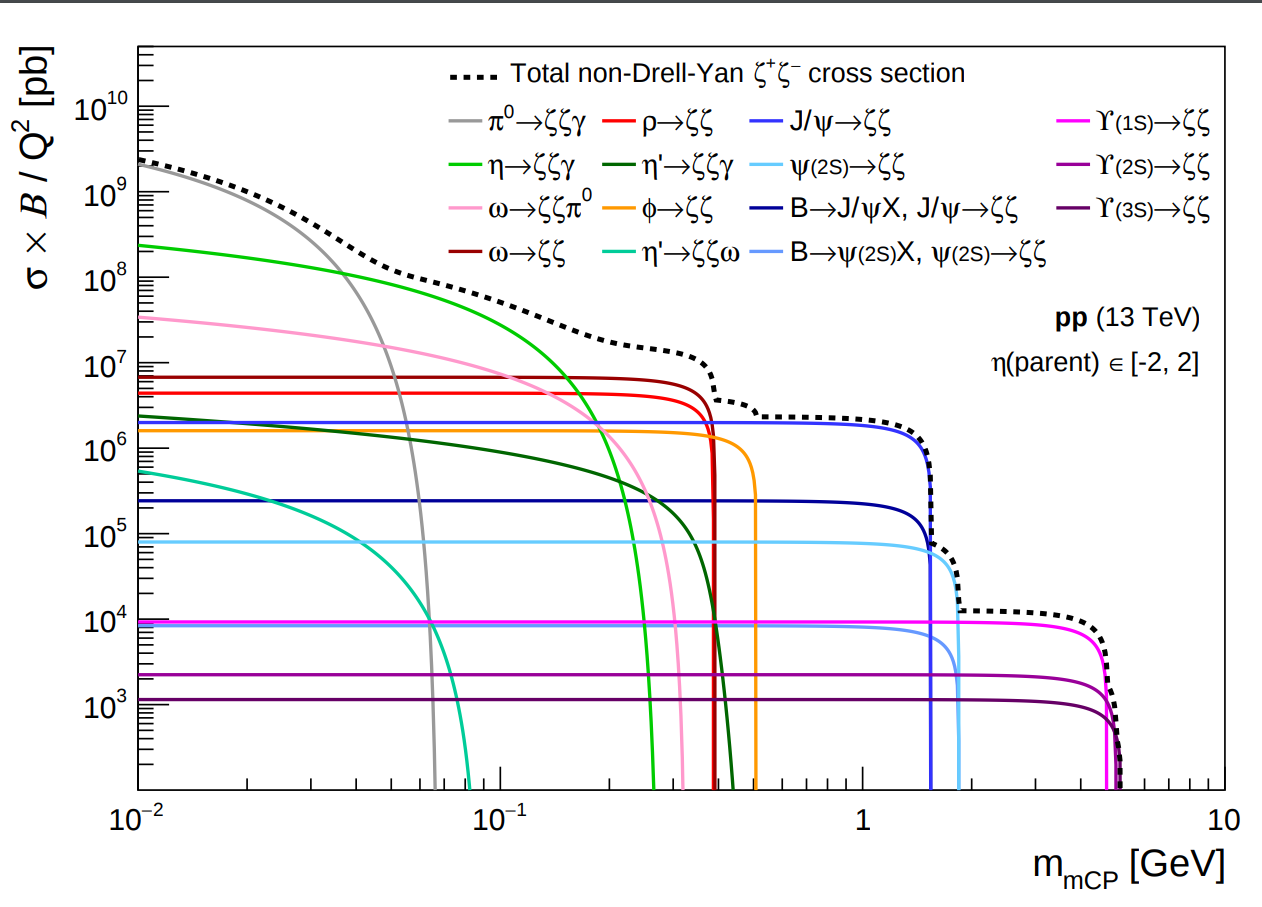
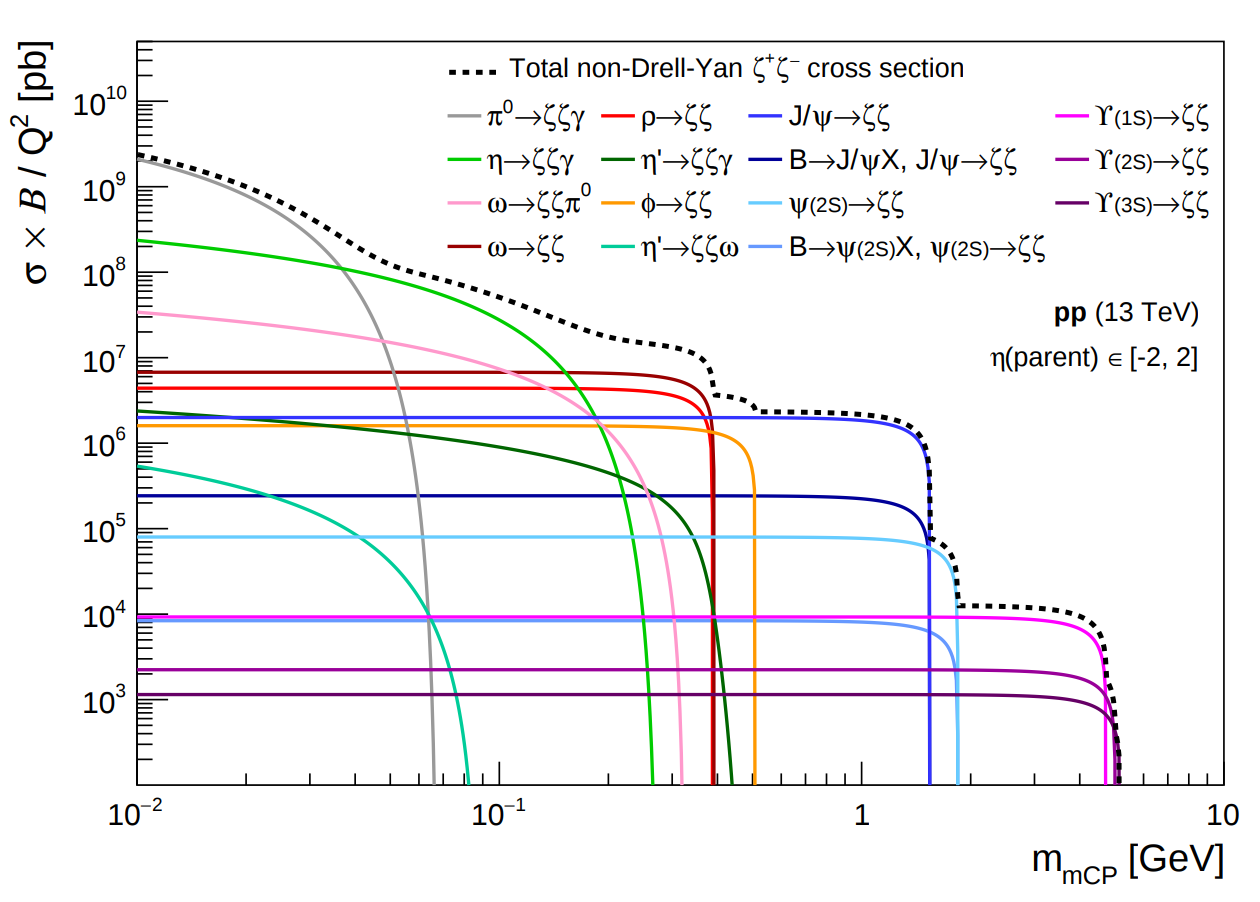
fixing xsec plot

diff --git a/scripts/plot-xsecs/make_plot.py b/scripts/plot-xsecs/make_plot.py
@@ -94,12 +94,12 @@ leg.AddEntry(gs[13], "#varUpsilon#scale[0.7]{(1S)}#rightarrow#zeta#zeta", 'l')
 
 leg.AddEntry(gs[7], "#eta#rightarrow#zeta#zeta#gamma", 'l')
 leg.AddEntry(gs[8], "#eta'#rightarrow#zeta#zeta#gamma", 'l')
-leg.AddEntry(gs[12], "#psi#scale[0.7]{(2S)}#rightarrow#zeta#zeta", 'l')
+leg.AddEntry(gs[1], "B#rightarrowJ/#psiX, J/#psi#rightarrow#zeta#zeta", 'l')
 leg.AddEntry(gs[14], "#varUpsilon#scale[0.7]{(2S)}#rightarrow#zeta#zeta", 'l')
 
 leg.AddEntry(gs[9], "#omega#rightarrow#zeta#zeta#pi^{0}", 'l')
 leg.AddEntry(gs[5], "#phi#rightarrow#zeta#zeta", 'l')
-leg.AddEntry(gs[1], "B#rightarrowJ/#psiX, J/#psi#rightarrow#zeta#zeta", 'l')
+leg.AddEntry(gs[12], "#psi#scale[0.7]{(2S)}#rightarrow#zeta#zeta", 'l')
 leg.AddEntry(gs[15], "#varUpsilon#scale[0.7]{(3S)}#rightarrow#zeta#zeta", 'l')
 
 leg.AddEntry(gs[4], "#omega#rightarrow#zeta#zeta", 'l')

diff --git a/propagate/run_sim.py b/propagate/run_sim.py
@@ -128,12 +128,14 @@ print "Simulating {0} events, 2 trajectories per event".format(Nevt)
 trajs = []
 n_hits = 0
 it = range(evt_start, evt_start+Nevt)
+using_tqdm = False
 if "redirect" not in sys.argv[3]:
     # condor jobs have "redirect" in file name (xrootd). Don't use tqdm for these since it blows up logs
     it = tqdm(it)
+    using_tqdm = True
 for i in it:
     
-    if not loaded_tqdm and i%100 == 0:
+    if (not loaded_tqdm or not using_tqdm) and i%10000 == 0:
         print "{0} / {1}".format(i, Nevt)
 
     tin.GetEntry(i)
